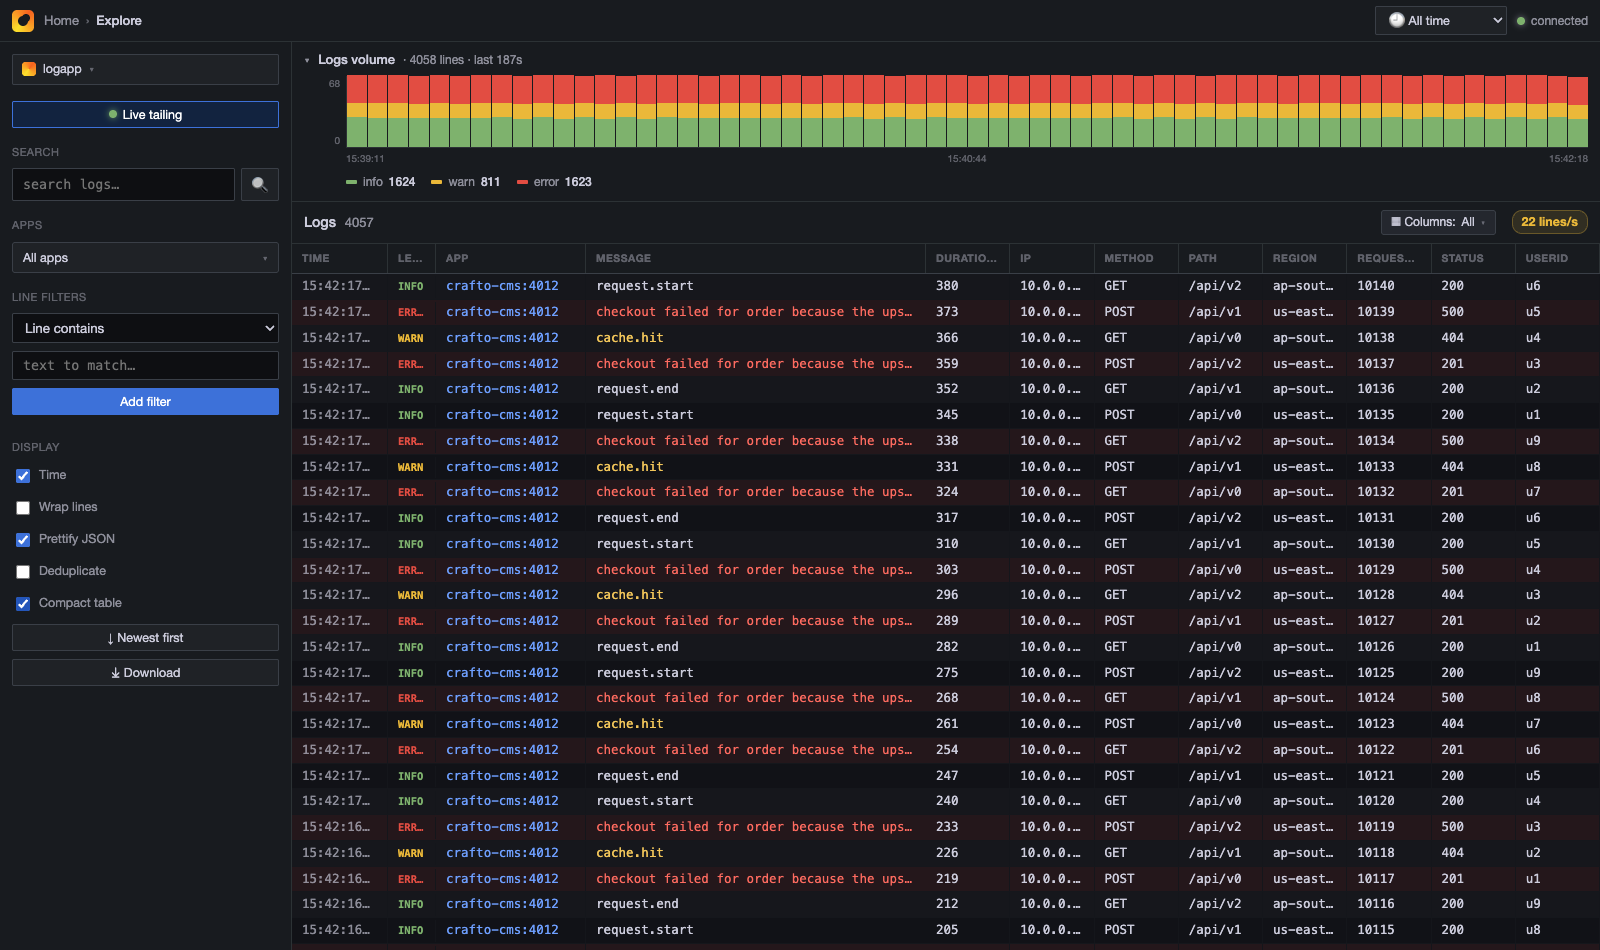
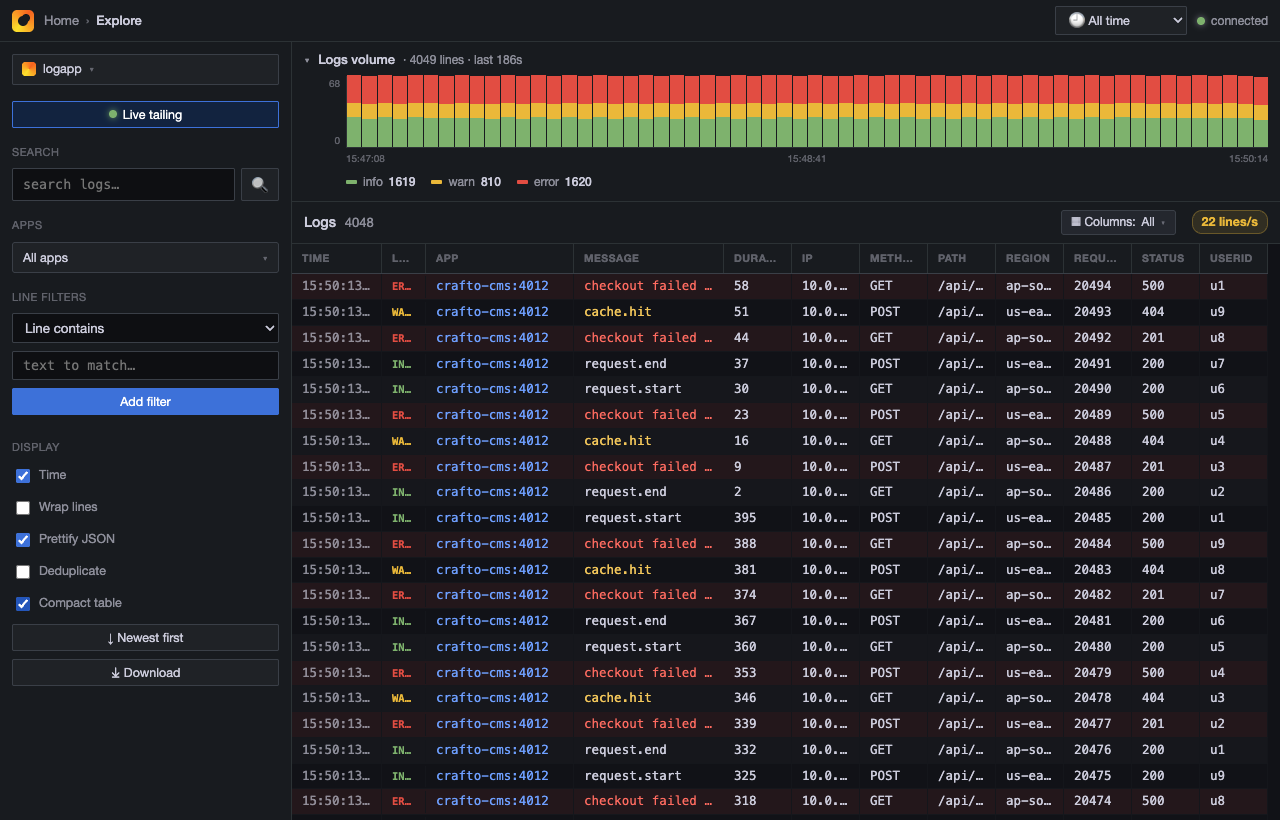
Compact table: tighten column widths so all columns fit on a laptop
- With 8+ field columns the grid minimum exceeded a laptop-width viewport, so the
  last column (userId) overflowed off-screen and looked cut/detached. Reduce the
  fixed column mins (time 90, level 44, app 148, message min 150, fields
  minmax(62,140)) so a full set fits ~1280px without horizontal scroll; wider
  screens still expand the message column. Add scrollbar-gutter:stable so the
  vertical scrollbar never overlaps the last column.

Changed region(s): [[0.0, 0.0, 1.0, 1.0], [0.8125, 0.0, 1.0, 0.0305], [0.0625, 0.7622, 0.1562, 0.8232]]

diff --git a/public/index.html b/public/index.html
@@ -155,7 +155,7 @@
 
   /* logs */
   #log { flex: 1; overflow-y: auto; background: var(--canvas); position: relative; }
-  #log.compactmode { overflow-x: auto; }
+  #log.compactmode { overflow-x: auto; scrollbar-gutter: stable; }
   .row { display: grid; grid-template-columns: 3px auto auto 1fr; align-items: start; border-bottom: 1px solid #16181d; }
   .row .bar { align-self: stretch; background: var(--l-unknown); }
   .row.trace .bar { background: var(--l-trace); } .row.debug .bar { background: var(--l-debug); }
@@ -494,8 +494,8 @@ function compactCols (out) {
 }
 
 function compactTemplate (cols) {
-  return (showTime ? '96px ' : '') + '48px 150px minmax(340px,1.3fr)' +
-    (cols.length ? ' ' + cols.map(() => 'minmax(80px,150px)').join(' ') : '')
+  return (showTime ? '90px ' : '') + '44px 148px minmax(150px,1.4fr)' +
+    (cols.length ? ' ' + cols.map(() => 'minmax(62px,140px)').join(' ') : '')
 }
 
 function compactHead (cols) {
